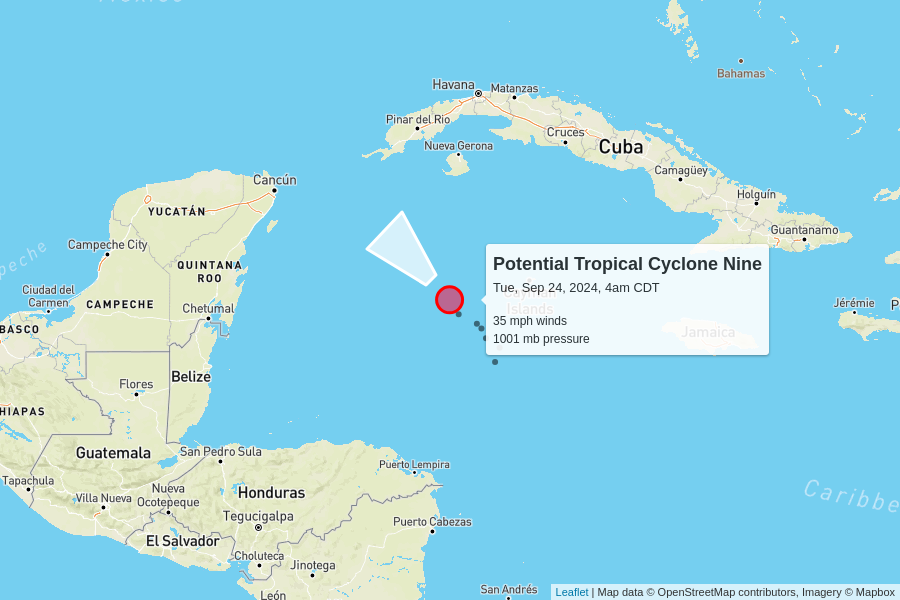
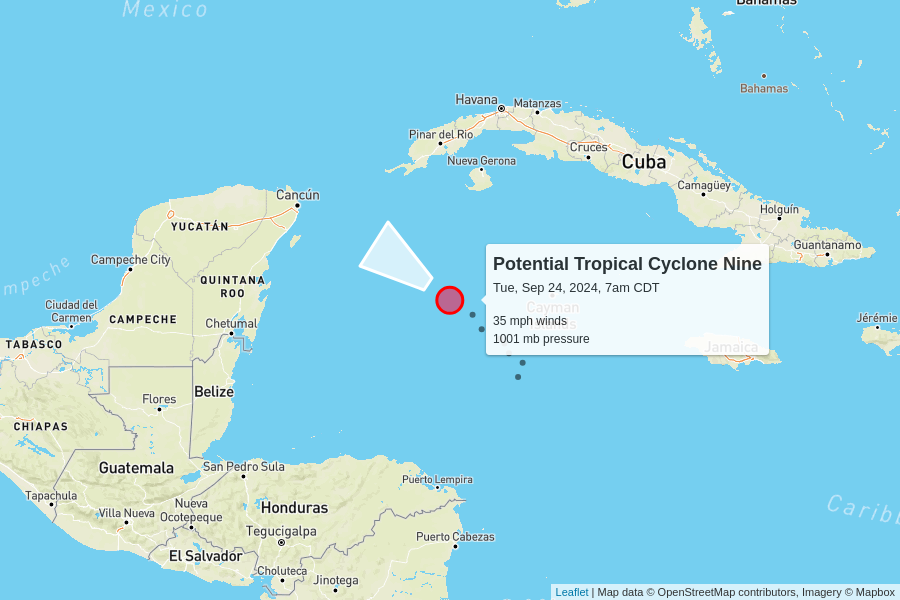
automatic update

diff --git a/docs/index.html b/docs/index.html
@@ -102,7 +102,7 @@
         <td colspan="6" class="storm category-0" >
           <h2>
             Potential Tropical Cyclone Nine
-            <p class="updated">last updated <span data-time>2024-09-24T09:00:00.000Z</span></p>
+            <p class="updated">last updated <span data-time>2024-09-24T12:00:00.000Z</span></p>
           </h2>
         </td>
       </tr>
@@ -118,11 +118,11 @@
       <tr>
         <td class="spacer"></td>
         <td>35 mph<br>0 mph since last update</td>
-        <td>1001 mb<br>-1 mb since last update</td>
+        <td>1001 mb<br>0 mb since last update</td>
         <td>
-          8 mph to the northwest
+          9 mph to the northwest
           <br/>
-          <span style="display: inline-block; font-size: 1.5em; transform: rotate(315deg);">↑</span>
+          <span style="display: inline-block; font-size: 1.5em; transform: rotate(305deg);">↑</span>
         </td>
         <td><a href="https://raw.githubusercontent.com/mgwalker/atlantic-hurricanes/main/data/csv/AL092024.csv">AL092024.csv</a></td>
         <td><a href="https://www.nhc.noaa.gov/archive/2024/NINE.shtml?">NHC advisories</a></td>
